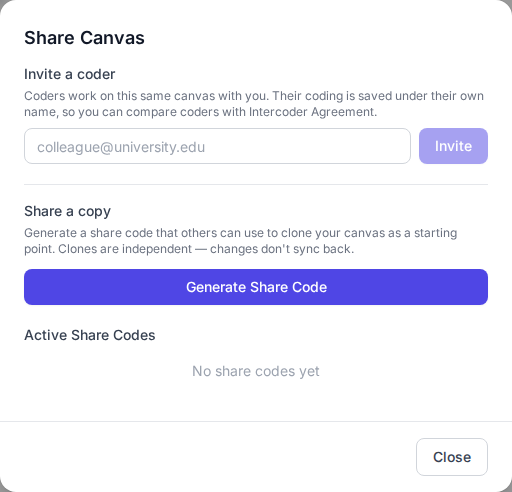
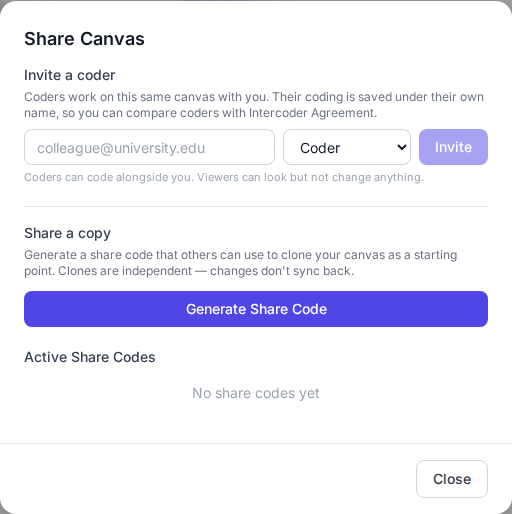
feat(collab): enforce read-only viewer role end-to-end (#135)
* feat(collab): enforce read-only viewer role end-to-end

The API accepted role 'viewer' but nothing enforced it (gap documented in
PR #134). viewerWriteGuard now 403s canvas writes for viewers at one
chokepoint; canvas detail returns myRole; Share modal offers Coder/Viewer
with badges; viewers see a View-only chip instead of the Saved indicator.

* chore(e2e): regenerate visual-regression baselines

* chore: wake CI after bot snapshot commit

---------

diff --git a/apps/backend/src/__tests__/integration/collaborator-access.test.ts b/apps/backend/src/__tests__/integration/collaborator-access.test.ts
@@ -62,6 +62,7 @@ import { errorHandler } from '../../middleware/errorHandler.js';
 import { signUserToken } from '../../utils/jwt.js';
 import { getOwnedCanvas } from '../../utils/routeHelpers.js';
 import { AppError } from '../../middleware/errorHandler.js';
+import { viewerWriteGuard } from '../../middleware/viewerGuard.js';
 
 function createApp() {
   const app = express();
@@ -278,5 +279,97 @@ describe('Collaborator access integration', () => {
       .set('Authorization', `Bearer ${strangerJwt}`);
 
     expect(res.status).toBe(403);
+  });
+});
+
+// ─── viewerWriteGuard — read-only enforcement for role 'viewer' ───
+describe('viewerWriteGuard', () => {
+  const viewer = {
+    id: 'user-viewer-1',
+    email: '[email redacted]',
+    name: 'Viewer',
+    role: 'researcher',
+    plan: 'pro',
+    sessionsInvalidAt: null,
+    trialEndsAt: null,
+    dashboardAccess: { id: 'da-viewer-1' },
+  };
+  let viewerJwt: string;
+  let editorJwt: string;
+  let app: express.Express;
+
+  // Dummy canvas-scoped router behind the guard — lets us test the
+  // middleware's method/path semantics without mounting real routes.
+  function createGuardedApp() {
+    const a = express();
+    a.use(express.json());
+    const dummy = express.Router();
+    dummy.get('/canvas/:id/things', (_req, res) => res.json({ ok: 'read' }));
+    dummy.post('/canvas/:id/things', (_req, res) => res.json({ ok: 'write' }));
+    dummy.post('/canvas/clone/SOMECODE', (_req, res) => res.json({ ok: 'clone' }));
+    a.use('/api', auth, viewerWriteGuard, dummy);
+    a.use(errorHandler);
+    return a;
+  }
+
+  beforeAll(() => {
+    viewerJwt = signUserToken(viewer.id, 'researcher', 'pro');
+    editorJwt = signUserToken(collaborator.id, 'researcher', 'pro');
+  });
+
+  beforeEach(() => {
+    vi.clearAllMocks();
+    app = createGuardedApp();
+    // eslint-disable-next-line @typescript-eslint/no-explicit-any
+    mockPrisma.user.findUnique.mockImplementation(async (args: any) => {
+      const pool = [...allUsers, viewer];
+      const found = pool.find((u) => u.id === args?.where?.id || u.email === args?.where?.email);
+      return found ? { ...found } : null;
+    });
+    // eslint-disable-next-line @typescript-eslint/no-explicit-any
+    mockPrisma.canvasCollaborator.findUnique.mockImplementation(async (args: any) => {
+      const key = args?.where?.canvasId_userId;
+      if (key?.canvasId !== canvasId) return null;
+      if (key.userId === viewer.id) return { id: 'cc-v', canvasId, userId: viewer.id, role: 'viewer' };
+      if (key.userId === collaborator.id) return { id: 'cc-1', canvasId, userId: collaborator.id, role: 'editor' };
+      return null;
+    });
+  });
+
+  it('blocks viewer writes with a friendly message', async () => {
+    const res = await request(app)
+      .post(`/api/canvas/${canvasId}/things`)
+      .set('Authorization', `Bearer ${viewerJwt}`)
+      .send({});
+
+    expect(res.status).toBe(403);
+    expect(res.body.error).toMatch(/view-only/i);
+  });
+
+  it('allows viewer reads', async () => {
+    const res = await request(app).get(`/api/canvas/${canvasId}/things`).set('Authorization', `Bearer ${viewerJwt}`);
+
+    expect(res.status).toBe(200);
+    expect(res.body.ok).toBe('read');
+  });
+
+  it('allows editor writes', async () => {
+    const res = await request(app)
+      .post(`/api/canvas/${canvasId}/things`)
+      .set('Authorization', `Bearer ${editorJwt}`)
+      .send({});
+
+    expect(res.status).toBe(200);
+    expect(res.body.ok).toBe('write');
+  });
+
+  it('does not touch clone/public path shapes', async () => {
+    const res = await request(app)
+      .post('/api/canvas/clone/SOMECODE')
+      .set('Authorization', `Bearer ${viewerJwt}`)
+      .send({});
+
+    expect(res.status).toBe(200);
+    expect(res.body.ok).toBe('clone');
   });
 });

diff --git a/apps/backend/src/middleware/viewerGuard.ts b/apps/backend/src/middleware/viewerGuard.ts
@@ -1,0 +1,44 @@
+import type { Request, Response, NextFunction } from 'express';
+import { prisma } from '../lib/prisma.js';
+import { AppError } from './errorHandler.js';
+
+const WRITE_METHODS = new Set(['POST', 'PUT', 'PATCH', 'DELETE']);
+
+// Path segments after /canvas/ that are NOT canvas ids (public/clone flows).
+const NON_ID_SEGMENTS = new Set(['clone', 'shared', 'trash']);
+
+/**
+ * Enforce read-only access for collaborators invited with role 'viewer'.
+ *
+ * getOwnedCanvas grants collaborators access to canvas routes but has no
+ * notion of HTTP method, so write enforcement lives here as a single
+ * chokepoint instead of threading a read/write flag through ~100 call
+ * sites. Mounted after `auth` on every canvas-scoped router.
+ *
+ * Cost: one indexed point lookup (canvasId+userId unique) per write request,
+ * and only for email-auth users on /canvas/:id paths — owners are never
+ * their own collaborators (the invite route rejects self-adds), so a
+ * missing row means "owner or stranger" and the route's own access check
+ * decides.
+ */
+export async function viewerWriteGuard(req: Request, _res: Response, next: NextFunction) {
+  try {
+    if (!WRITE_METHODS.has(req.method)) return next();
+    const userId = req.userId;
+    if (!userId) return next(); // legacy access-code users can't be collaborators
+
+    const match = req.path.match(/^\/canvas\/([A-Za-z0-9-]+)(\/|$)/);
+    if (!match || NON_ID_SEGMENTS.has(match[1])) return next();
+
+    const collaborator = await prisma.canvasCollaborator.findUnique({
+      where: { canvasId_userId: { canvasId: match[1], userId } },
+      select: { role: true },
+    });
+    if (collaborator?.role === 'viewer') {
+      return next(new AppError('You have view-only access to this canvas. Ask the owner for coder access.', 403));
+    }
+    return next();
+  } catch (err) {
+    return next(err);
+  }
+}

diff --git a/apps/frontend/src/components/canvas/panels/ShareCanvasModal.tsx b/apps/frontend/src/components/canvas/panels/ShareCanvasModal.tsx
@@ -26,6 +26,7 @@ export default function ShareCanvasModal({ onClose }: Props) {
   const [confirmRevokeId, setConfirmRevokeId] = useState<string | null>(null);
   const [collaborators, setCollaborators] = useState<CollaboratorInfo[]>([]);
   const [inviteEmail, setInviteEmail] = useState('');
+  const [inviteRole, setInviteRole] = useState<'editor' | 'viewer'>('editor');
   const [inviting, setInviting] = useState(false);
   const [confirmRemoveUserId, setConfirmRemoveUserId] = useState<string | null>(null);
 
@@ -54,7 +55,6 @@ export default function ShareCanvasModal({ onClose }: Props) {
     }
   };
 
-  // eslint-disable-next-line react-hooks/exhaustive-deps -- loaders are not memoized, activeCanvasId is the true trigger
   useEffect(() => {
     loadShares();
     loadCollaborators();
@@ -65,9 +65,13 @@ export default function ShareCanvasModal({ onClose }: Props) {
     if (!activeCanvasId || !email) return;
     setInviting(true);
     try {
-      await canvasApi.addCollaborator(activeCanvasId, { email, role: 'editor' });
+      await canvasApi.addCollaborator(activeCanvasId, { email, role: inviteRole });
       setInviteEmail('');
-      toast.success('Coder invited — this canvas now appears in their canvas list');
+      toast.success(
+        inviteRole === 'viewer'
+          ? 'Viewer invited — they can open this canvas but not change it'
+          : 'Coder invited — this canvas now appears in their canvas list',
+      );
       loadCollaborators();
       // eslint-disable-next-line @typescript-eslint/no-explicit-any
     } catch (err: any) {
@@ -161,6 +165,15 @@ export default function ShareCanvasModal({ onClose }: Props) {
                 aria-label="Coder's email address"
                 className="input h-9 flex-1 text-sm"
               />
+              <select
+                value={inviteRole}
+                onChange={(e) => setInviteRole(e.target.value as 'editor' | 'viewer')}
+                aria-label="Access level"
+                className="input h-9 w-32 text-sm"
+              >
+                <option value="editor">Coder</option>
+                <option value="viewer">Viewer</option>
+              </select>
               <button
                 onClick={handleInvite}
                 disabled={inviting || !inviteEmail.trim()}
@@ -169,6 +182,9 @@ export default function ShareCanvasModal({ onClose }: Props) {
                 {inviting ? 'Inviting...' : 'Invite'}
               </button>
             </div>
+            <p className="mt-1 text-[11px] text-gray-400 dark:text-gray-500">
+              Coders can code alongside you. Viewers can look but not change anything.
+            </p>
             {collaborators.length > 0 && (
               <div className="mt-2 space-y-1.5">
                 {collaborators.map((c) => (
@@ -177,7 +193,18 @@ export default function ShareCanvasModal({ onClose }: Props) {
                     className="flex items-center justify-between rounded-lg border border-gray-200 px-3 py-2 dark:border-gray-700"
                   >
                     <div className="min-w-0">
-                      <p className="truncate text-sm text-gray-800 dark:text-gray-200">{c.userName}</p>
+                      <p className="truncate text-sm text-gray-800 dark:text-gray-200">
+                        {c.userName}
+                        <span
+                          className={`ml-2 inline-block rounded-full px-2 py-0.5 text-[10px] font-medium align-middle ${
+                            c.role === 'viewer'
+                              ? 'bg-gray-100 text-gray-500 dark:bg-gray-700 dark:text-gray-400'
+                              : 'bg-indigo-50 text-indigo-600 dark:bg-indigo-900/30 dark:text-indigo-300'
+                          }`}
+                        >
+                          {c.role === 'viewer' ? 'Viewer' : 'Coder'}
+                        </span>
+                      </p>
                       <p className="truncate text-[11px] text-gray-400">{c.userEmail}</p>
                     </div>
                     <button

diff --git a/apps/backend/src/index.ts b/apps/backend/src/index.ts
@@ -74,6 +74,7 @@ import { fileURLToPath } from 'url';
 
 import { Router } from 'express';
 import { auth } from './middleware/auth.js';
+import { viewerWriteGuard } from './middleware/viewerGuard.js';
 import { auditLog } from './middleware/auditLog.js';
 import { csrfProtection } from './middleware/csrf.js';
 import { errorHandler } from './middleware/errorHandler.js';
@@ -329,29 +330,29 @@ v1Router.use(billingRoutes);
 v1Router.use(eventsRoutes);
 
 // Protected canvas routes
-v1Router.use(auth, auditLog, canvasRoutes);
+v1Router.use(auth, viewerWriteGuard, auditLog, canvasRoutes);
 
 // Protected ethics & compliance routes
-v1Router.use(auth, auditLog, ethicsRoutes);
+v1Router.use(auth, viewerWriteGuard, auditLog, ethicsRoutes);
 
 // Protected AI routes
-v1Router.use(auth, auditLog, aiRoutes);
+v1Router.use(auth, viewerWriteGuard, auditLog, aiRoutes);
 
 // Protected research assistant & summary routes
-v1Router.use(auth, auditLog, chatRoutes);
-v1Router.use(auth, auditLog, summaryRoutes);
+v1Router.use(auth, viewerWriteGuard, auditLog, chatRoutes);
+v1Router.use(auth, viewerWriteGuard, auditLog, summaryRoutes);
 
 // Protected upload & transcription routes
-v1Router.use(auth, auditLog, uploadRoutes);
+v1Router.use(auth, viewerWriteGuard, auditLog, uploadRoutes);
 
 // Protected collaboration routes
 v1Router.use(auth, auditLog, collaborationRoutes);
 
 // Protected document & region coding routes
-v1Router.use(auth, auditLog, documentRoutes);
+v1Router.use(auth, viewerWriteGuard, auditLog, documentRoutes);
 
 // Protected training center routes
-v1Router.use(auth, auditLog, trainingRoutes);
+v1Router.use(auth, viewerWriteGuard, auditLog, trainingRoutes);
 
 // Protected template + onboarding routes
 v1Router.use(auth, auditLog, templateRoutes);
@@ -360,7 +361,7 @@ v1Router.use(auth, auditLog, templateRoutes);
 v1Router.use(auth, auditLog, auditRoutes);
 
 // Protected QDPX export/import routes
-v1Router.use(auth, auditLog, qdpxRoutes);
+v1Router.use(auth, viewerWriteGuard, auditLog, qdpxRoutes);
 
 // Protected repository routes
 v1Router.use(auth, auditLog, repositoryRoutes);

diff --git a/apps/frontend/src/components/canvas/panels/ShareCanvasModal.test.tsx b/apps/frontend/src/components/canvas/panels/ShareCanvasModal.test.tsx
@@ -185,6 +185,25 @@ describe('ShareCanvasModal', () => {
     expect(mockCanvasApi.getCollaborators).toHaveBeenCalledTimes(2);
   });
 
+  it('invites a viewer when the Viewer access level is selected', async () => {
+    mockCanvasApi.addCollaborator.mockResolvedValue({ data: { data: { userId: 'u3' } } });
+
+    render(<ShareCanvasModal onClose={onClose} />);
+
+    fireEvent.change(screen.getByLabelText("Coder's email address"), {
+      target: { value: '[email redacted]' },
+    });
+    fireEvent.change(screen.getByLabelText('Access level'), { target: { value: 'viewer' } });
+    fireEvent.click(screen.getByText('Invite'));
+
+    await waitFor(() => {
+      expect(mockCanvasApi.addCollaborator).toHaveBeenCalledWith('canvas-1', {
+        email: '[email redacted]',
+        role: 'viewer',
+      });
+    });
+  });
+
   it('surfaces the server message when the invited email has no account', async () => {
     mockCanvasApi.addCollaborator.mockRejectedValue({
       response: { data: { error: 'No QualCanvas account found with that email.' } },

diff --git a/apps/backend/src/routes/canvasRoutes.ts b/apps/backend/src/routes/canvasRoutes.ts
@@ -190,8 +190,23 @@ canvasRoutes.get('/canvas/:canvasId', validateParams(canvasCanvasIdParam), async
     });
     if (!canvas) return next(new AppError('Canvas not found', 404));
 
+    // Tell the client what it may do with this canvas: 'owner', or the
+    // collaborator's role ('editor' | 'viewer'). Viewers get a read-only
+    // workspace; writes are enforced server-side by viewerWriteGuard.
+    const userId = getAuthUserId(req);
+    const isOwner = canvas.dashboardAccessId === dashboardAccessId || (userId && canvas.userId === userId);
+    let myRole = 'owner';
+    if (!isOwner && userId) {
+      const collab = await prisma.canvasCollaborator.findUnique({
+        where: { canvasId_userId: { canvasId: canvas.id, userId } },
+        select: { role: true },
+      });
+      myRole = collab?.role || 'viewer';
+    }
+
     const data = {
       ...canvas,
+      myRole,
       cases: canvas.cases.map((c) => ({ ...c, attributes: safeJsonParse(c.attributes) })),
       computedNodes: canvas.computedNodes.map((n) => ({
         ...n,

diff --git a/apps/frontend/src/components/canvas/CanvasWorkspace.tsx b/apps/frontend/src/components/canvas/CanvasWorkspace.tsx
@@ -3038,7 +3038,16 @@ export default function CanvasWorkspace() {
                       GRID
                     </span>
                   )}
-                  <span>{savingLayout ? 'Saving...' : 'Saved'}</span>
+                  {activeCanvas?.myRole === 'viewer' ? (
+                    <span
+                      className="rounded bg-amber-100 px-1.5 py-0.5 text-[9px] font-medium text-amber-700 dark:bg-amber-900/40 dark:text-amber-400"
+                      title="You have view-only access — ask the canvas owner for coder access to make changes"
+                    >
+                      View only
+                    </span>
+                  ) : (
+                    <span>{savingLayout ? 'Saving...' : 'Saved'}</span>
+                  )}
                   <NotificationBell />
                   {collaboration.isConnected && collaboration.collaborators.length > 0 && (
                     <PresenceAvatars

diff --git a/shared/types/canvas.types.ts b/shared/types/canvas.types.ts
@@ -304,6 +304,8 @@ export interface CanvasDetail extends CodingCanvas {
   cases: CanvasCase[];
   relations: CanvasRelation[];
   computedNodes: CanvasComputedNode[];
+  /** The requesting user's relationship to this canvas: 'owner', 'editor', or 'viewer'. */
+  myRole?: 'owner' | 'editor' | 'viewer';
 }
 
 // ─── Input Types ───